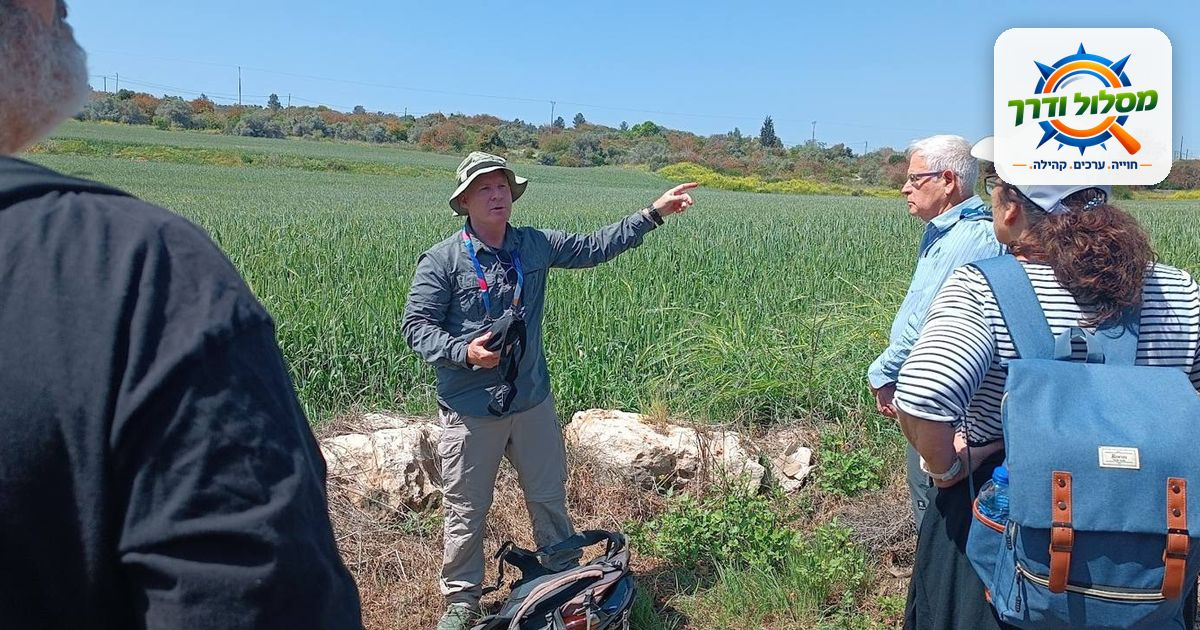
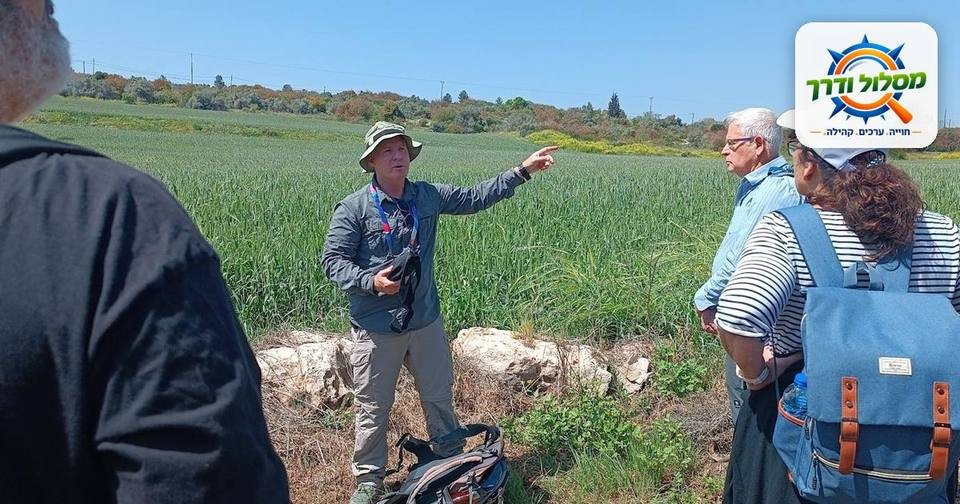
Lighter share images (≤110KB) for 9 pages; seniors and soldiers untouched
Claude-Session: https://claude.ai/code/session_01EeqeYiZ5VECgk1dfuzWJxN

diff --git a/tanach-tashach.html b/tanach-tashach.html
@@ -10,8 +10,8 @@
 <meta property="og:description" content="בעקבות גיבורי וגיבורות העמק: 5 סיורים בעמק יזרעאל ובגלבוע, כל אחד עומד בפני עצמו. יש מסלול לחיילים, למשפחות, לגמלאים, למחפשי אתגר ולזוגות.">
 <meta property="og:url" content="https://maslul-derech.co.il/tanach-tashach.html">
 <meta property="og:image" content="https://maslul-derech.co.il/share-valley-view.jpg">
-<meta property="og:image:width" content="1200">
-<meta property="og:image:height" content="630">
+<meta property="og:image:width" content="1080">
+<meta property="og:image:height" content="567">
 <meta name="twitter:card" content="summary_large_image">
 <link rel="canonical" href="https://maslul-derech.co.il/tanach-tashach.html">
 </head><body>

diff --git a/celebrate.html b/celebrate.html
@@ -10,8 +10,8 @@
 <meta property="og:description" content="יש לכם סיבה לחגוג? יש לנו מסלול. יום הולדת עגול, שנת בר/בת מצווה, בעקבות ספר, שורשים או יום גיבוש. טיול שנבנה סביב הסיפור שלכם.">
 <meta property="og:url" content="https://maslul-derech.co.il/celebrate.html">
 <meta property="og:image" content="https://maslul-derech.co.il/share-celebrate-hero.jpg">
-<meta property="og:image:width" content="1200">
-<meta property="og:image:height" content="630">
+<meta property="og:image:width" content="1080">
+<meta property="og:image:height" content="567">
 <meta name="twitter:card" content="summary_large_image">
 <link rel="canonical" href="https://maslul-derech.co.il/celebrate.html">
 </head><body>

diff --git a/activities.html b/activities.html
@@ -10,8 +10,8 @@
 <meta property="og:description" content="רוצים להוסיף לטיול עוד משהו? סדנת צילום בסלולר, בינגו, יצירה מהטבע, יוגה בנוף, ארוחה בשטח, ובעצם כל מה שהקבוצה רוצה.">
 <meta property="og:url" content="https://maslul-derech.co.il/activities.html">
 <meta property="og:image" content="https://maslul-derech.co.il/share-exp-hero.jpg">
-<meta property="og:image:width" content="1200">
-<meta property="og:image:height" content="630">
+<meta property="og:image:width" content="960">
+<meta property="og:image:height" content="504">
 <meta name="twitter:card" content="summary_large_image">
 <link rel="canonical" href="https://maslul-derech.co.il/activities.html">
 </head><body>

diff --git a/families.html b/families.html
@@ -10,8 +10,8 @@
 <meta property="og:description" content="יום כיף לכל המשפחה: הסודות של תל יזרעאל עם סדנת יצירה מהטבע לילדים, או מסלולי מים מאתגרים בגלבוע ובנחל תבור.">
 <meta property="og:url" content="https://maslul-derech.co.il/families.html">
 <meta property="og:image" content="https://maslul-derech.co.il/share-families-log.jpg">
-<meta property="og:image:width" content="1200">
-<meta property="og:image:height" content="630">
+<meta property="og:image:width" content="880">
+<meta property="og:image:height" content="462">
 <meta name="twitter:card" content="summary_large_image">
 <link rel="canonical" href="https://maslul-derech.co.il/families.html">
 </head><body>

diff --git a/tasting.html b/tasting.html
@@ -10,8 +10,8 @@
 <meta property="og:description" content="שוק, טעימות וסיפור ישראלי: חוויה מגבשת לחיילים ולמפקדים. כשעה וחצי, בכל הארץ. ספק מוכר של משרד הביטחון.">
 <meta property="og:url" content="https://maslul-derech.co.il/tasting.html">
 <meta property="og:image" content="https://maslul-derech.co.il/share-tasting-ai-hummus.jpg">
-<meta property="og:image:width" content="1200">
-<meta property="og:image:height" content="630">
+<meta property="og:image:width" content="1080">
+<meta property="og:image:height" content="567">
 <meta name="twitter:card" content="summary_large_image">
 <link rel="canonical" href="https://maslul-derech.co.il/tasting.html">
 </head><body>

diff --git a/sejera.html b/sejera.html
@@ -10,8 +10,8 @@
 <meta property="og:description" content="איפה בן גוריון הצעיר חרש את האדמה ושמר על המושבה? סיור מורשת בסג'רה, כולל כניסה לבסיס חוות השומר.">
 <meta property="og:url" content="https://maslul-derech.co.il/sejera.html">
 <meta property="og:image" content="https://maslul-derech.co.il/share-sejera-field.jpg">
-<meta property="og:image:width" content="1200">
-<meta property="og:image:height" content="630">
+<meta property="og:image:width" content="960">
+<meta property="og:image:height" content="504">
 <meta name="twitter:card" content="summary_large_image">
 <link rel="canonical" href="https://maslul-derech.co.il/sejera.html">
 </head><body>

diff --git a/contact.html b/contact.html
@@ -10,8 +10,8 @@
 <meta property="og:description" content="מוכנים לצאת למסע? ספרו לי מי אתם ומה מתאים לכם, ואחזור אליכם עם רעיון. ווטסאפ 052-9456936 או טופס פנייה.">
 <meta property="og:url" content="https://maslul-derech.co.il/contact.html">
 <meta property="og:image" content="https://maslul-derech.co.il/share-wetland.jpg">
-<meta property="og:image:width" content="1200">
-<meta property="og:image:height" content="630">
+<meta property="og:image:width" content="960">
+<meta property="og:image:height" content="504">
 <meta name="twitter:card" content="summary_large_image">
 <link rel="canonical" href="https://maslul-derech.co.il/contact.html">
 </head><body>

diff --git a/tavor.html b/tavor.html
@@ -10,8 +10,8 @@
 <meta property="og:description" content="מסלול מים מעגלי של כ־7 ק&quot;מ בקניון בזלת: גבים, מפל, ובחורף ובאביב גם שטיחי תורמוסים. למיטיבי לכת.">
 <meta property="og:url" content="https://maslul-derech.co.il/tavor.html">
 <meta property="og:image" content="https://maslul-derech.co.il/share-tavor-hero.jpg">
-<meta property="og:image:width" content="1200">
-<meta property="og:image:height" content="630">
+<meta property="og:image:width" content="880">
+<meta property="og:image:height" content="462">
 <meta name="twitter:card" content="summary_large_image">
 <link rel="canonical" href="https://maslul-derech.co.il/tavor.html">
 </head><body>

diff --git a/index.html b/index.html
@@ -10,8 +10,8 @@
 <meta property="og:description" content="מורה דרך מוסמך, בכל הארץ: משפחות, גיל שלישי, ועדים, נוער, חיילים ותיירות נכנסת. חוויה. ערכים. קהילה.">
 <meta property="og:url" content="https://maslul-derech.co.il/">
 <meta property="og:image" content="https://maslul-derech.co.il/share-wheat-path.jpg">
-<meta property="og:image:width" content="1200">
-<meta property="og:image:height" content="630">
+<meta property="og:image:width" content="880">
+<meta property="og:image:height" content="462">
 <meta name="twitter:card" content="summary_large_image">
 <link rel="canonical" href="https://maslul-derech.co.il/">
 </head><body>
